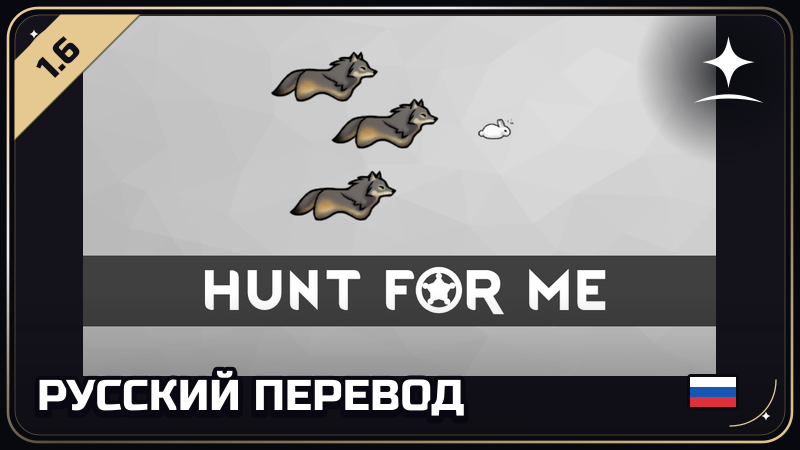
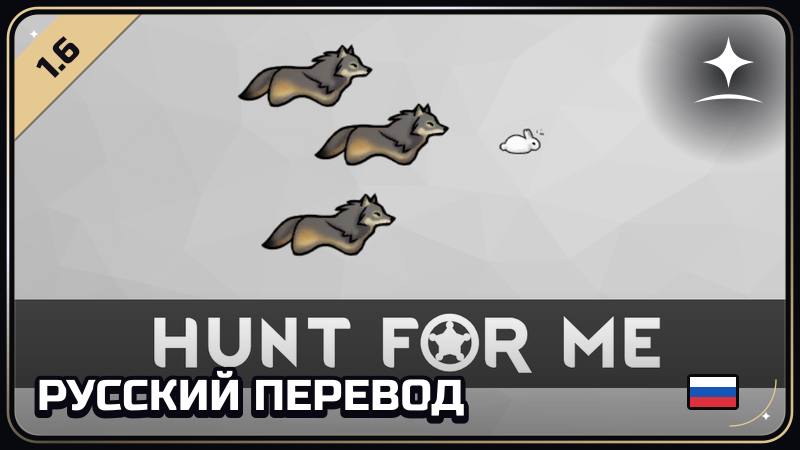
Unify artwork fitting for Russian translation covers

diff --git a/catalog/translations.md b/catalog/translations.md
@@ -12,7 +12,7 @@
 
 [![RimSaves — русский перевод](https://raw.githubusercontent.com/chupakobra6/star-sky-assets/main/assets/rimsaves-translation.png)](https://steamcommunity.com/sharedfiles/filedetails/?id=3803300028)
 
-RimWorld 1.6 · Версия 1.0.2
+RimWorld 1.6 · Версия 1.0.3
 
 [Мастерская](https://steamcommunity.com/sharedfiles/filedetails/?id=3803300028) · [Исходники и руководство](../mods/RU-1713367505/README.md) · [История изменений](../mods/RU-1713367505/CHANGELOG.md) · [Лицензия](../mods/RU-1713367505/LICENSE) · [Источники и уведомления](../mods/RU-1713367505/NOTICES.md)
 
@@ -22,7 +22,7 @@ RimWorld 1.6 · Версия 1.0.2
 
 [![Visible Raid Points — русский перевод](https://raw.githubusercontent.com/chupakobra6/star-sky-assets/main/assets/visible-raid-points-translation.png)](https://steamcommunity.com/sharedfiles/filedetails/?id=3803300103)
 
-RimWorld 1.6 · Версия 1.0.2
+RimWorld 1.6 · Версия 1.0.3
 
 [Мастерская](https://steamcommunity.com/sharedfiles/filedetails/?id=3803300103) · [Исходники и руководство](../mods/RU-2562730174/README.md) · [История изменений](../mods/RU-2562730174/CHANGELOG.md) · [Лицензия](../mods/RU-2562730174/LICENSE) · [Источники и уведомления](../mods/RU-2562730174/NOTICES.md)
 
@@ -32,7 +32,7 @@ RimWorld 1.6 · Версия 1.0.2
 
 [![SimpleCameraSetting — русский перевод](https://raw.githubusercontent.com/chupakobra6/star-sky-assets/main/assets/simple-camera-setting-translation.png)](https://steamcommunity.com/sharedfiles/filedetails/?id=3803300163)
 
-RimWorld 1.6 · Версия 1.0.2
+RimWorld 1.6 · Версия 1.0.3
 
 [Мастерская](https://steamcommunity.com/sharedfiles/filedetails/?id=3803300163) · [Исходники и руководство](../mods/RU-3232415388/README.md) · [История изменений](../mods/RU-3232415388/CHANGELOG.md) · [Лицензия](../mods/RU-3232415388/LICENSE) · [Источники и уведомления](../mods/RU-3232415388/NOTICES.md)
 
@@ -42,7 +42,7 @@ RimWorld 1.6 · Версия 1.0.2
 
 [![QualityBuilder Unofficial 1.6 — русский перевод](https://raw.githubusercontent.com/chupakobra6/star-sky-assets/main/assets/qualitybuilder-translation.png)](https://steamcommunity.com/sharedfiles/filedetails/?id=3803300243)
 
-RimWorld 1.6 · Версия 1.0.2
+RimWorld 1.6 · Версия 1.0.3
 
 [Мастерская](https://steamcommunity.com/sharedfiles/filedetails/?id=3803300243) · [Исходники и руководство](../mods/RU-3512466087/README.md) · [История изменений](../mods/RU-3512466087/CHANGELOG.md) · [Лицензия](../mods/RU-3512466087/LICENSE) · [Источники и уведомления](../mods/RU-3512466087/NOTICES.md)
 
@@ -52,7 +52,7 @@ RimWorld 1.6 · Версия 1.0.2
 
 [![Goodwill Preview — русский перевод](https://raw.githubusercontent.com/chupakobra6/star-sky-assets/main/assets/goodwill-preview-translation.png)](https://steamcommunity.com/sharedfiles/filedetails/?id=3803300296)
 
-RimWorld 1.6 · Версия 1.0.2
+RimWorld 1.6 · Версия 1.0.3
 
 [Мастерская](https://steamcommunity.com/sharedfiles/filedetails/?id=3803300296) · [Исходники и руководство](../mods/RU-3695225114/README.md) · [История изменений](../mods/RU-3695225114/CHANGELOG.md) · [Лицензия](../mods/RU-3695225114/LICENSE) · [Источники и уведомления](../mods/RU-3695225114/NOTICES.md)
 
@@ -62,7 +62,7 @@ RimWorld 1.6 · Версия 1.0.2
 
 [![Go Explore! — русский перевод](https://raw.githubusercontent.com/chupakobra6/star-sky-assets/main/assets/go-explore-translation.png)](https://steamcommunity.com/sharedfiles/filedetails/?id=3803465492)
 
-RimWorld 1.6 · Версия 1.0.0
+RimWorld 1.6 · Версия 1.0.1
 
 [Мастерская](https://steamcommunity.com/sharedfiles/filedetails/?id=3803465492) · [Исходники и руководство](../mods/RU-1814100216/README.md) · [История изменений](../mods/RU-1814100216/CHANGELOG.md) · [Лицензия](../mods/RU-1814100216/LICENSE) · [Источники и уведомления](../mods/RU-1814100216/NOTICES.md)
 
@@ -72,7 +72,7 @@ RimWorld 1.6 · Версия 1.0.0
 
 [![Adaptive Storage Framework — русский перевод](https://raw.githubusercontent.com/chupakobra6/star-sky-assets/main/assets/adaptive-storage-framework-translation.png)](https://steamcommunity.com/sharedfiles/filedetails/?id=3803465496)
 
-RimWorld 1.6 · Версия 1.0.0
+RimWorld 1.6 · Версия 1.0.1
 
 [Мастерская](https://steamcommunity.com/sharedfiles/filedetails/?id=3803465496) · [Исходники и руководство](../mods/RU-3033901359/README.md) · [История изменений](../mods/RU-3033901359/CHANGELOG.md) · [Лицензия](../mods/RU-3033901359/LICENSE) · [Источники и уведомления](../mods/RU-3033901359/NOTICES.md)
 
@@ -82,7 +82,7 @@ RimWorld 1.6 · Версия 1.0.0
 
 [![Hunt for Me — русский перевод](https://raw.githubusercontent.com/chupakobra6/star-sky-assets/main/assets/hunt-for-me-translation.png)](https://steamcommunity.com/sharedfiles/filedetails/?id=3803465500)
 
-RimWorld 1.6 · Версия 1.0.0
+RimWorld 1.6 · Версия 1.0.1
 
 [Мастерская](https://steamcommunity.com/sharedfiles/filedetails/?id=3803465500) · [Исходники и руководство](../mods/RU-1593245720/README.md) · [История изменений](../mods/RU-1593245720/CHANGELOG.md) · [Лицензия](../mods/RU-1593245720/LICENSE) · [Источники и уведомления](../mods/RU-1593245720/NOTICES.md)
 
@@ -92,7 +92,7 @@ RimWorld 1.6 · Версия 1.0.0
 
 [![Useful Marks — русский перевод](https://raw.githubusercontent.com/chupakobra6/star-sky-assets/main/assets/useful-marks-translation.png)](https://steamcommunity.com/sharedfiles/filedetails/?id=3803465503)
 
-RimWorld 1.6 · Версия 1.0.0
+RimWorld 1.6 · Версия 1.0.1
 
 [Мастерская](https://steamcommunity.com/sharedfiles/filedetails/?id=3803465503) · [Исходники и руководство](../mods/RU-3506573327/README.md) · [История изменений](../mods/RU-3506573327/CHANGELOG.md) · [Лицензия](../mods/RU-3506573327/LICENSE) · [Источники и уведомления](../mods/RU-3506573327/NOTICES.md)
 
@@ -102,6 +102,6 @@ RimWorld 1.6 · Версия 1.0.0
 
 [![Nice Bill Tab — русский перевод](https://raw.githubusercontent.com/chupakobra6/star-sky-assets/main/assets/nice-bill-tab-translation.png)](https://steamcommunity.com/sharedfiles/filedetails/?id=3803465507)
 
-RimWorld 1.6 · Версия 1.0.0
+RimWorld 1.6 · Версия 1.0.1
 
 [Мастерская](https://steamcommunity.com/sharedfiles/filedetails/?id=3803465507) · [Исходники и руководство](../mods/RU-3520130671/README.md) · [История изменений](../mods/RU-3520130671/CHANGELOG.md) · [Лицензия](../mods/RU-3520130671/LICENSE) · [Источники и уведомления](../mods/RU-3520130671/NOTICES.md)

diff --git a/mods/RU-1713367505/CHANGELOG.md b/mods/RU-1713367505/CHANGELOG.md
@@ -1,5 +1,10 @@
 # История изменений
 
+## 1.0.3
+
+- Обновлена обложка: изображение оригинального мода подогнано под рамку для равномерного заполнения без лишних тёмных полей.
+- Игровые тексты, код и поведение мода не изменены.
+
 ## 1.0.2
 
 - Руководство, история изменений и пояснения к источникам и лицензиям переведены на русский.

diff --git a/mods/RU-2562730174/CHANGELOG.md b/mods/RU-2562730174/CHANGELOG.md
@@ -1,5 +1,10 @@
 # История изменений
 
+## 1.0.3
+
+- Обновлена обложка: изображение оригинального мода подогнано под рамку для равномерного заполнения без лишних тёмных полей.
+- Игровые тексты, код и поведение мода не изменены.
+
 ## 1.0.2
 
 - Руководство, история изменений и пояснения к источникам и лицензиям переведены на русский.

diff --git a/mods/RU-3232415388/CHANGELOG.md b/mods/RU-3232415388/CHANGELOG.md
@@ -1,5 +1,10 @@
 # История изменений
 
+## 1.0.3
+
+- Обновлена обложка: изображение оригинального мода подогнано под рамку для равномерного заполнения без лишних тёмных полей.
+- Игровые тексты, код и поведение мода не изменены.
+
 ## 1.0.2
 
 - Руководство, история изменений и пояснения к источникам и лицензиям переведены на русский.

diff --git a/mods/RU-3512466087/CHANGELOG.md b/mods/RU-3512466087/CHANGELOG.md
@@ -1,5 +1,10 @@
 # История изменений
 
+## 1.0.3
+
+- Обновлена обложка: изображение оригинального мода подогнано под рамку для равномерного заполнения без лишних тёмных полей.
+- Игровые тексты, код и поведение мода не изменены.
+
 ## 1.0.2
 
 - Руководство, история изменений и пояснения к источникам и лицензиям переведены на русский.

diff --git a/mods/RU-3695225114/CHANGELOG.md b/mods/RU-3695225114/CHANGELOG.md
@@ -1,5 +1,10 @@
 # История изменений
 
+## 1.0.3
+
+- Обновлена обложка: изображение оригинального мода подогнано под рамку для равномерного заполнения без лишних тёмных полей.
+- Игровые тексты, код и поведение мода не изменены.
+
 ## 1.0.2
 
 - Руководство, история изменений и пояснения к источникам и лицензиям переведены на русский.

diff --git a/mods/RU-3520130671/CHANGELOG.md b/mods/RU-3520130671/CHANGELOG.md
@@ -1,5 +1,10 @@
 # История изменений
 
+## 1.0.1
+
+- Обновлена обложка: изображение оригинального мода подогнано под рамку для равномерного заполнения без лишних тёмных полей.
+- Игровые тексты, код и поведение мода не изменены.
+
 ## 1.0.0
 
 Первый выпуск отдельного русского перевода Nice Bill Tab для RimWorld 1.6.

diff --git a/mods/RU-3506573327/CHANGELOG.md b/mods/RU-3506573327/CHANGELOG.md
@@ -1,5 +1,10 @@
 # История изменений
 
+## 1.0.1
+
+- Обновлена обложка: изображение оригинального мода подогнано под рамку для равномерного заполнения без лишних тёмных полей.
+- Игровые тексты, код и поведение мода не изменены.
+
 ## 1.0.0
 
 Первый выпуск отдельного русского перевода Useful Marks для RimWorld 1.6.

diff --git a/mods/RU-1593245720/CHANGELOG.md b/mods/RU-1593245720/CHANGELOG.md
@@ -1,5 +1,10 @@
 # История изменений
 
+## 1.0.1
+
+- Обновлена обложка: изображение оригинального мода подогнано под рамку для равномерного заполнения без лишних тёмных полей.
+- Игровые тексты, код и поведение мода не изменены.
+
 ## 1.0.0
 
 - Первый отдельный выпуск русского перевода для RimWorld 1.6.

diff --git a/mods/RU-1814100216/CHANGELOG.md b/mods/RU-1814100216/CHANGELOG.md
@@ -1,5 +1,10 @@
 # История изменений
 
+## 1.0.1
+
+- Обновлена обложка: изображение оригинального мода подогнано под рамку для равномерного заполнения без лишних тёмных полей.
+- Игровые тексты, код и поведение мода не изменены.
+
 ## 1.0.0
 
 - Первый отдельный выпуск русского перевода для RimWorld 1.6.

diff --git a/mods/RU-3033901359/CHANGELOG.md b/mods/RU-3033901359/CHANGELOG.md
@@ -1,5 +1,10 @@
 # История изменений
 
+## 1.0.1
+
+- Обновлена обложка: изображение оригинального мода подогнано под рамку для равномерного заполнения без лишних тёмных полей.
+- Игровые тексты, код и поведение мода не изменены.
+
 ## 1.0.0
 
 - Первый отдельный выпуск русского перевода для RimWorld 1.6.
